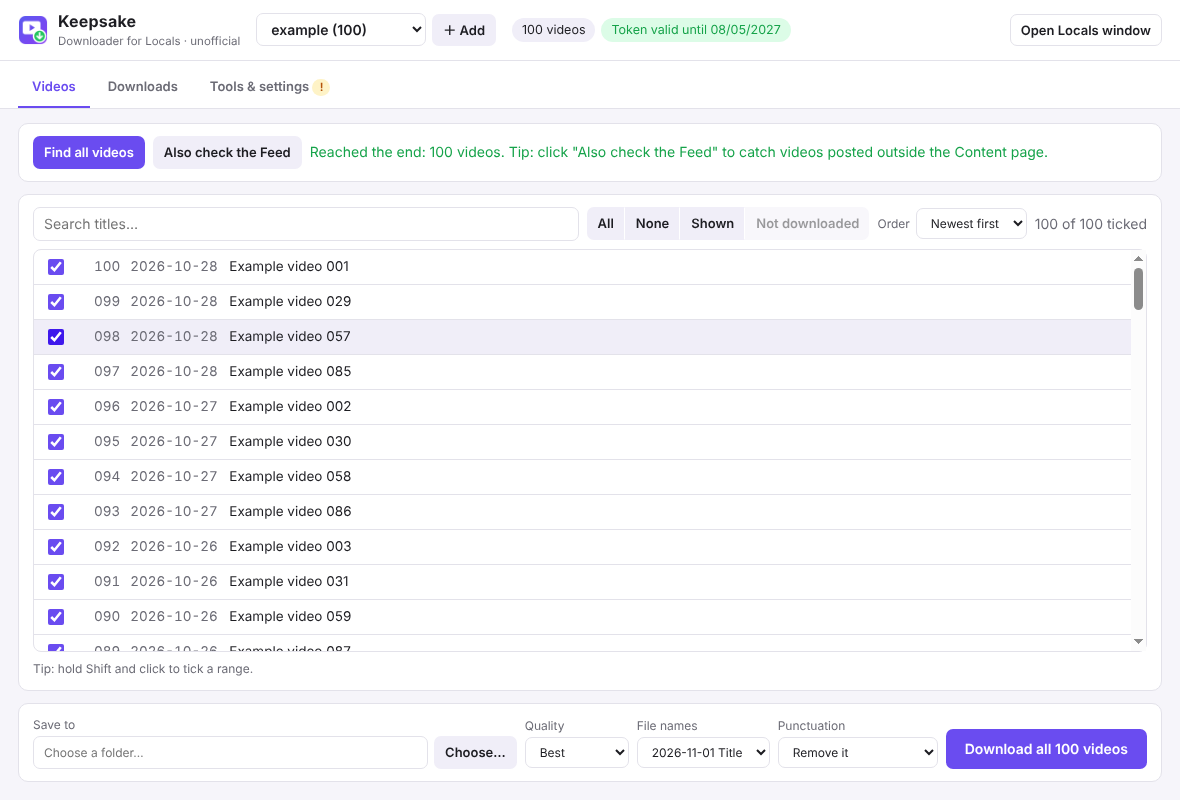
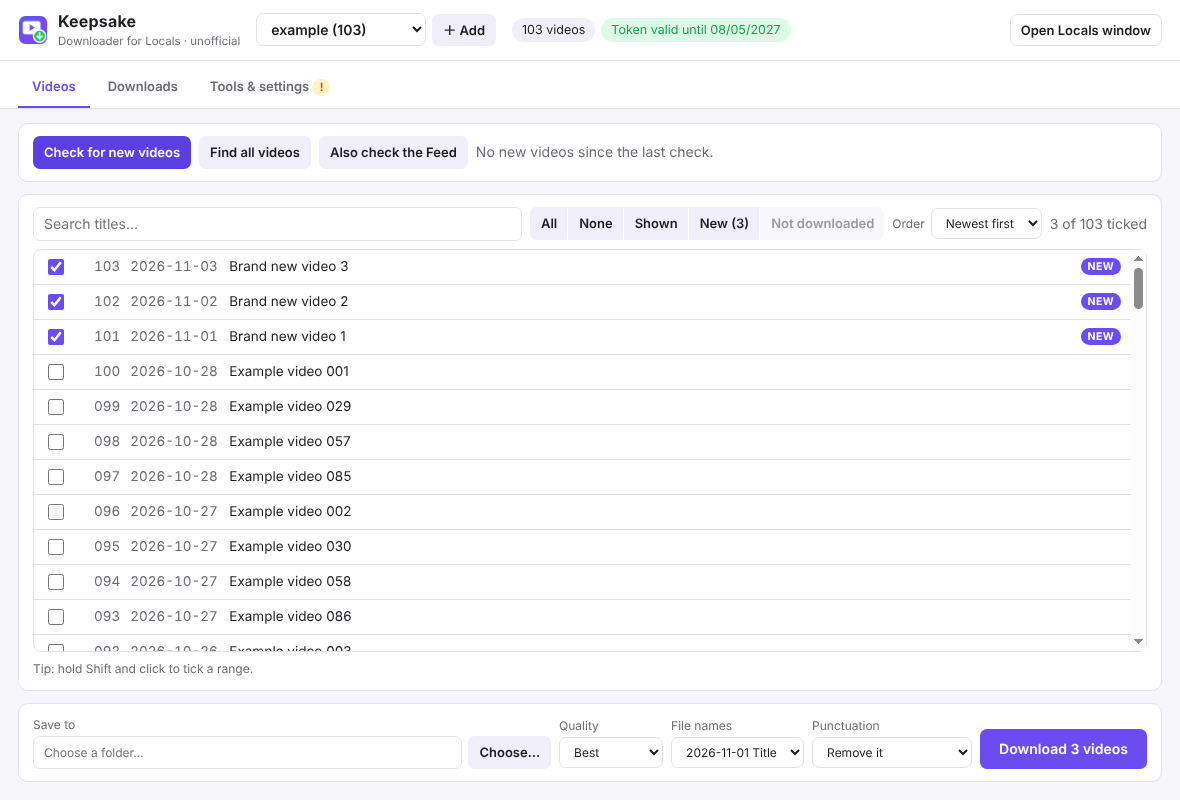
App 0.2.1: open other sites in the normal browser; tidy-ups
- Links to other sites in the Locals window open in the default browser, so
  only Locals/Rumble pages run inside the app with the Locals session
- Remove a leftover yt-dlp cookie file from an interrupted earlier run
- Token dates written as "8 May 2027" (unambiguous)
- Dependabot: one grouped monthly update proposal for the app's components
  (Electron security fixes) and for the workflow actions
- Docs: desktop app section in how-it-works, direct releases link, new screenshots
- e2e: external links open outside the app

diff --git a/app/src/main.js b/app/src/main.js
@@ -172,16 +172,37 @@ function blockedSignIn(url) {
   return true;
 }
 
+// Pages that belong in the Locals window (Locals itself, and Rumble, which owns it and may
+// handle sign-in). Links to anywhere else open in the member's normal browser instead.
+const IN_APP = /^https?:\/\/([a-z0-9-]+\.)*(locals\.com|rumble\.com)(:\d+)?(\/|$)/i;
+const openedExternally = []; // for the automated tests
+
+function openInBrowser(url) {
+  if (!/^https:\/\//.test(url)) return;
+  if (TEST.dataDir) openedExternally.push(url);
+  else shell.openExternal(url);
+}
+
 function guardLocalsContents(wc) {
   wc.on('will-navigate', (e, url) => {
-    if (!/^https?:\/\//.test(url) || blockedSignIn(url)) e.preventDefault();
+    if (!/^https?:\/\//.test(url) || blockedSignIn(url)) {
+      e.preventDefault();
+    } else if (!IN_APP.test(url)) {
+      e.preventDefault();
+      openInBrowser(url);
+    }
   });
   wc.on('will-redirect', (e, url) => {
     if (blockedSignIn(url)) e.preventDefault();
   });
   wc.setWindowOpenHandler(({ url }) => {
     if (!/^https?:\/\//.test(url) || blockedSignIn(url)) return { action: 'deny' };
-    // Other sign-in pop-ups stay in the app (same session); nothing else gets the Keepsake preload.
+    if (!IN_APP.test(url)) {
+      // e.g. a YouTube link in a post: open it in the normal browser, not with the Locals session
+      openInBrowser(url);
+      return { action: 'deny' };
+    }
+    // Locals/Rumble pop-ups (such as sign-in) stay in the app; they don't get the Keepsake preload.
     return {
       action: 'allow',
       overrideBrowserWindowOptions: {
@@ -291,7 +312,7 @@ function prepare(item) {
   const exp = LVS.decodeTokenExpiry(state.token);
   if (exp && exp.getTime() < Date.now()) {
     throw new Error(
-      `Your video token for ${item.slug} expired on ${exp.toLocaleDateString()}. In the Locals window, play any video for a few seconds, then click "Resume all".`
+      `Your video token for ${item.slug} expired on ${exp.toLocaleDateString('en-GB', { day: 'numeric', month: 'long', year: 'numeric' })}. In the Locals window, play any video for a few seconds, then click "Resume all".`
     );
   }
   return {
@@ -319,7 +340,8 @@ async function cookies() {
 }
 
 function removeCookieFile() {
-  if (cookieFile) fs.rmSync(cookieFile, { force: true });
+  // Also clears a file left behind if the app ever stopped unexpectedly mid-download.
+  fs.rmSync(cookieFile || path.join(app.getPath('userData'), 'yt-dlp-cookies.txt'), { force: true });
   cookieFile = null;
 }
 
@@ -615,6 +637,7 @@ app.whenReady().then(() => {
       notifyCommunity(q.slug);
     }
   });
+  removeCookieFile(); // from an earlier run that didn't finish cleanly
   setupLocalsSession();
   registerActions();
   createMainWindow();
@@ -622,7 +645,7 @@ app.whenReady().then(() => {
     updateState = s;
     send('update', Object.assign({ current: VERSION }, s));
   });
-  if (TEST.dataDir) global.__keepsake = { store, tools, downloader };
+  if (TEST.dataDir) global.__keepsake = { store, tools, downloader, openedExternally };
 });
 
 app.on('before-quit', () => {

diff --git a/app/test/e2e.js b/app/test/e2e.js
@@ -88,6 +88,15 @@ async function until(fn, ms, what) {
     await until(async () => (await win.isVisible('#notice')) && /Google doesn't allow/.test(await win.textContent('#noticeText')), 10000, 'Google notice');
     if (/accounts\.google\.com/.test(localsWin.url())) throw new Error('Google page should not open');
     console.log('Google sign-in stopped with an explanation: OK');
+
+    // 1a) Links to other sites open in the normal browser, not inside the app
+    const windowsBefore = app.windows().length;
+    await localsWin.evaluate(() => document.getElementById('ext').click());
+    await localsWin.evaluate(() => document.getElementById('extpopup').click());
+    const opened = await until(() => app.evaluate(() => global.__keepsake.openedExternally.length === 2 && global.__keepsake.openedExternally), 5000, 'external links');
+    if (!/from-a-post/.test(opened[0]) || !/new-tab/.test(opened[1])) throw new Error('external: ' + opened);
+    if (!/example\.beta\.locals\.com/.test(localsWin.url()) || app.windows().length !== windowsBefore) throw new Error('external link opened inside the app');
+    console.log('links to other sites open in the normal browser: OK');
     await shot('app-google-notice.png');
     await win.click('#noticeFirefox');
     await until(async () => /Done: signed in using Firefox/.test(await win.textContent('#noticeText')), 10000, 'Firefox import');

diff --git a/app/src/ui/ui.js b/app/src/ui/ui.js
@@ -36,6 +36,8 @@
   }
 
   const state = () => (comm ? comm.state : null);
+  // "8 May 2027": unambiguous wherever the reader is from
+  const longDate = (d) => d.toLocaleDateString('en-GB', { day: 'numeric', month: 'long', year: 'numeric' });
   const selected = () => {
     const s = state();
     return s ? s.order.filter((id) => !excluded.has(id)) : [];
@@ -110,12 +112,12 @@
     } else if (s && s.token) {
       const exp = LVS.decodeTokenExpiry(s.token);
       if (exp && exp.getTime() < Date.now()) {
-        chip.textContent = `Token expired ${exp.toLocaleDateString('en-GB')}`;
+        chip.textContent = `Token expired ${longDate(exp)}`;
         chip.className = 'chip warn';
         help.textContent = 'Your video token has expired. In the Locals window, play any video for a few seconds to renew it.';
         help.hidden = false;
       } else {
-        chip.textContent = exp ? `Token valid until ${exp.toLocaleDateString('en-GB')}` : 'Token captured';
+        chip.textContent = exp ? `Token valid until ${longDate(exp)}` : 'Token captured';
         chip.className = 'chip ok';
       }
     } else {

diff --git a/test/e2e/mock_locals_server.py b/test/e2e/mock_locals_server.py
@@ -33,6 +33,7 @@ def page(n):
 HTML = '''<!doctype html><html><head><title>Locals mock</title>
 <style>body{margin:0;font:14px sans-serif} #s{height:100vh;overflow-y:auto} .c{height:220px;border-bottom:1px solid #ccc;padding:8px}</style></head>
 <body><div id="who">%s</div><a id="google" href="https://accounts.google.com/o/oauth2/v2/auth?client_id=mock">Sign in with Google</a>
+<a id="ext" href="https://example.org/from-a-post">A link in a post</a> <a id="extpopup" href="https://example.org/new-tab" target="_blank">Opens a new tab</a>
 <div id="s"><div id="list"></div><div id="sentinel">loading…</div></div>
 <script>
 let next = 0, busy = false;

diff --git a/app/README.md b/app/README.md
@@ -17,7 +17,7 @@ A standalone app for **Windows, Mac and Linux** that does everything the browser
 
 ## Install
 
-Download the file for your computer from the latest **Keepsake desktop app** release on the [releases page](../../../releases).
+Download the file for your computer from the newest **Keepsake desktop app** release on the [releases page](https://github.com/al-elessar/keepsake-locals/releases) (the extension's releases are listed there too).
 
 The app isn't signed with a paid code-signing certificate, so each system warns you the first time. This is expected for small open-source apps.
 
@@ -40,6 +40,8 @@ The app checks for a new version when it starts and every few hours.
 - **Mac:** you'll see a notice with a **Download** link. Install it the same way as the first time. (macOS only lets apps signed with a paid Apple certificate update themselves.)
 
 Unfinished downloads carry on after an update: click **Resume all**.
+
+Links to other websites inside the Locals window open in your normal browser, so only Locals' own pages run inside Keepsake.
 
 ## How to use
 

diff --git a/docs/how-it-works.md b/docs/how-it-works.md
@@ -43,6 +43,10 @@ File names are cleaned so they are safe on Windows, and so that `%`, `!`, `&` an
 - The rename script uses unquoted wildcards (`*v_<id>*.mp4`), checks the folder exists before `cd /d`, and counts a rename only if the new file exists.
 - File names can contain non-English characters. The script switches the console to UTF-8 (`chcp 65001`), which Windows 10 and 11 support.
 
+## The desktop app
+
+The app (`app/`, Electron) uses the same code from `core/`: the page hook is put into the real Locals page in the app's Locals window (a sandboxed window with its own saved session), the findings are merged and stored as in the extension, and "Find all videos" uses the same scrolling loop. Instead of writing a script, it runs yt-dlp itself, once per video, and reads its progress. See [app/README.md](../app/README.md).
+
 ## Known gaps
 
 - Titles are confirmed on one live community. Dates have only been tested against mock data, so check them on the live site. Use **Export debug info**, which removes the token, and open an issue with the file if they're wrong.

diff --git a/CHANGELOG.md b/CHANGELOG.md
@@ -1,5 +1,10 @@
 # Changelog
 
+## Desktop app 0.2.1 (beta)
+- Links to other sites in the Locals window (e.g. a YouTube link in a post) open in your normal browser instead of inside Keepsake.
+- Tidies up the temporary sign-in file for yt-dlp if the app ever stopped unexpectedly during a download.
+- Monthly automatic proposals to update the app's components (including Electron's security fixes).
+
 ## Desktop app 0.2.0 (beta) – 12 November 2026
 - **Mac and Linux** versions (Mac: .dmg for Apple silicon and Intel; Linux: AppImage), built by GitHub Actions alongside Windows.
 - **Automatic updates** on Windows and Linux; a notice with a download link on Mac.

diff --git a/app/RELEASE-NOTES.md b/app/RELEASE-NOTES.md
@@ -1,3 +1,5 @@
+**New in 0.2.1:** links to other sites in the Locals window now open in your normal browser, and a small privacy tidy-up. Installed copies on Windows and Linux update themselves.
+
 **Keepsake desktop app, beta, for Windows, Mac and Linux.** It does everything the browser extension does, and runs the downloads itself: no script needed.
 
 - Sign in on Locals' own page inside the app, or, if you use Google to sign in, reuse your Firefox sign-in with one click. Keepsake never sees your password; only the session is kept on your computer.
